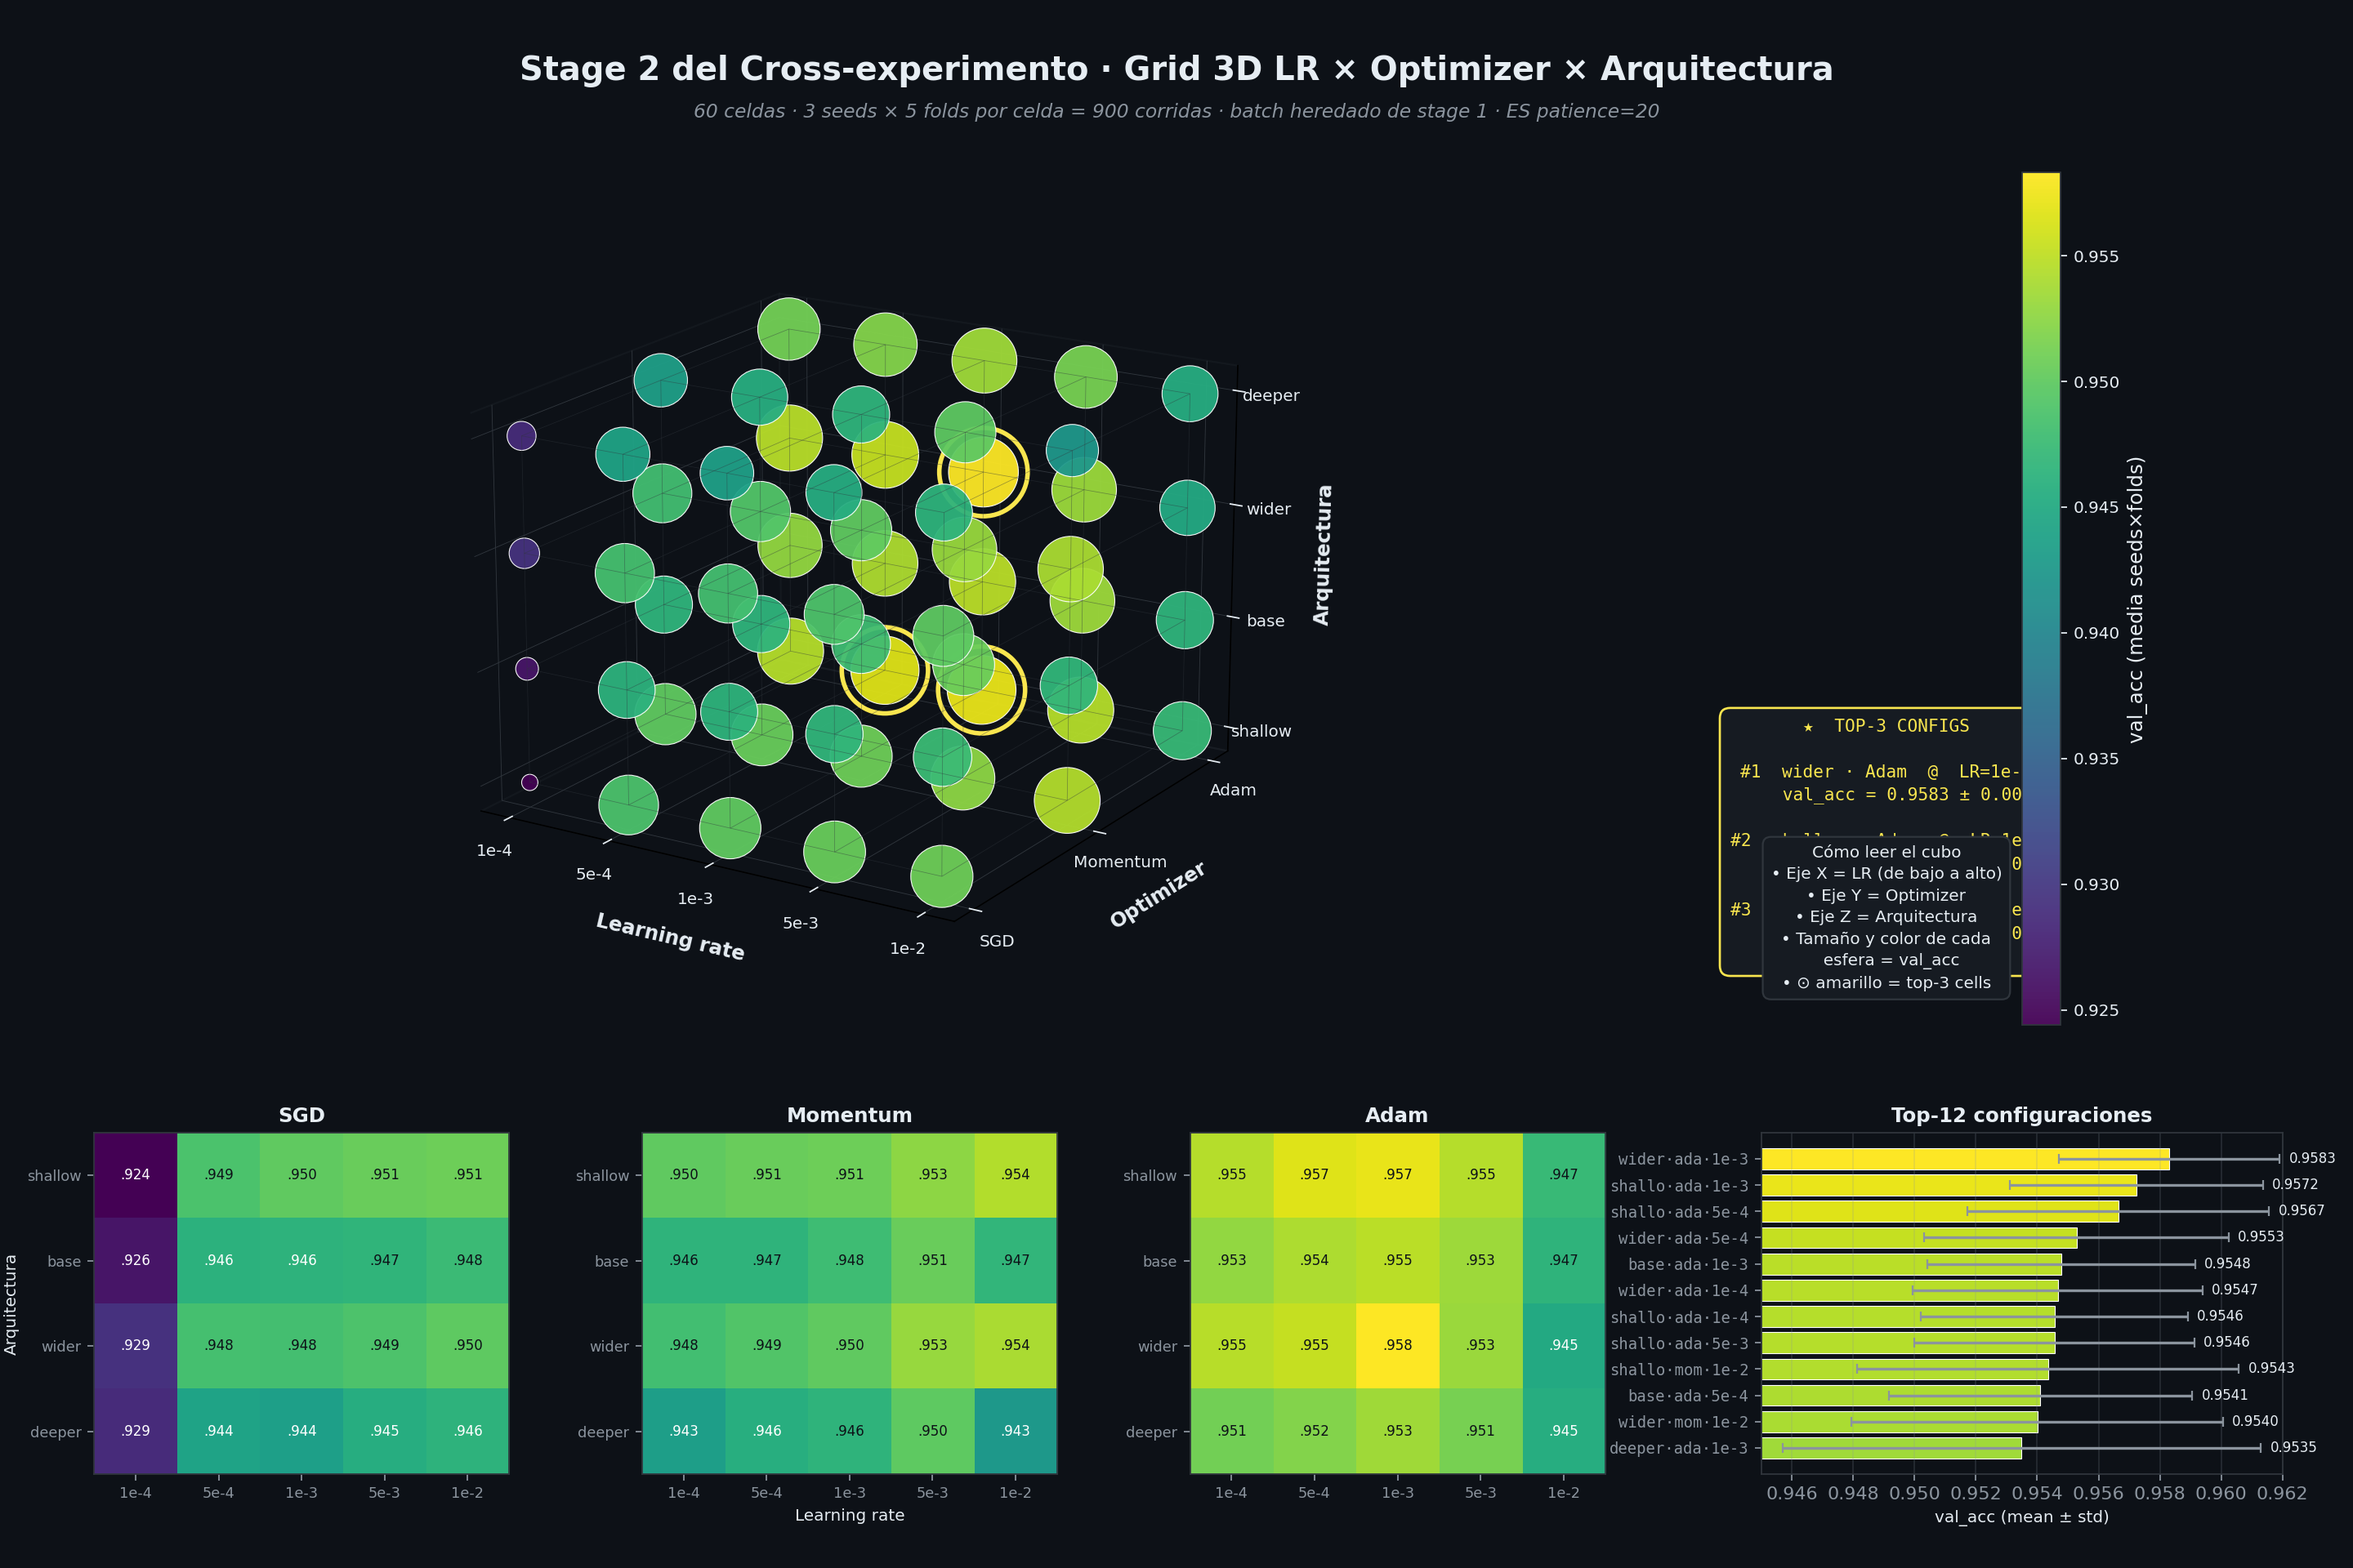
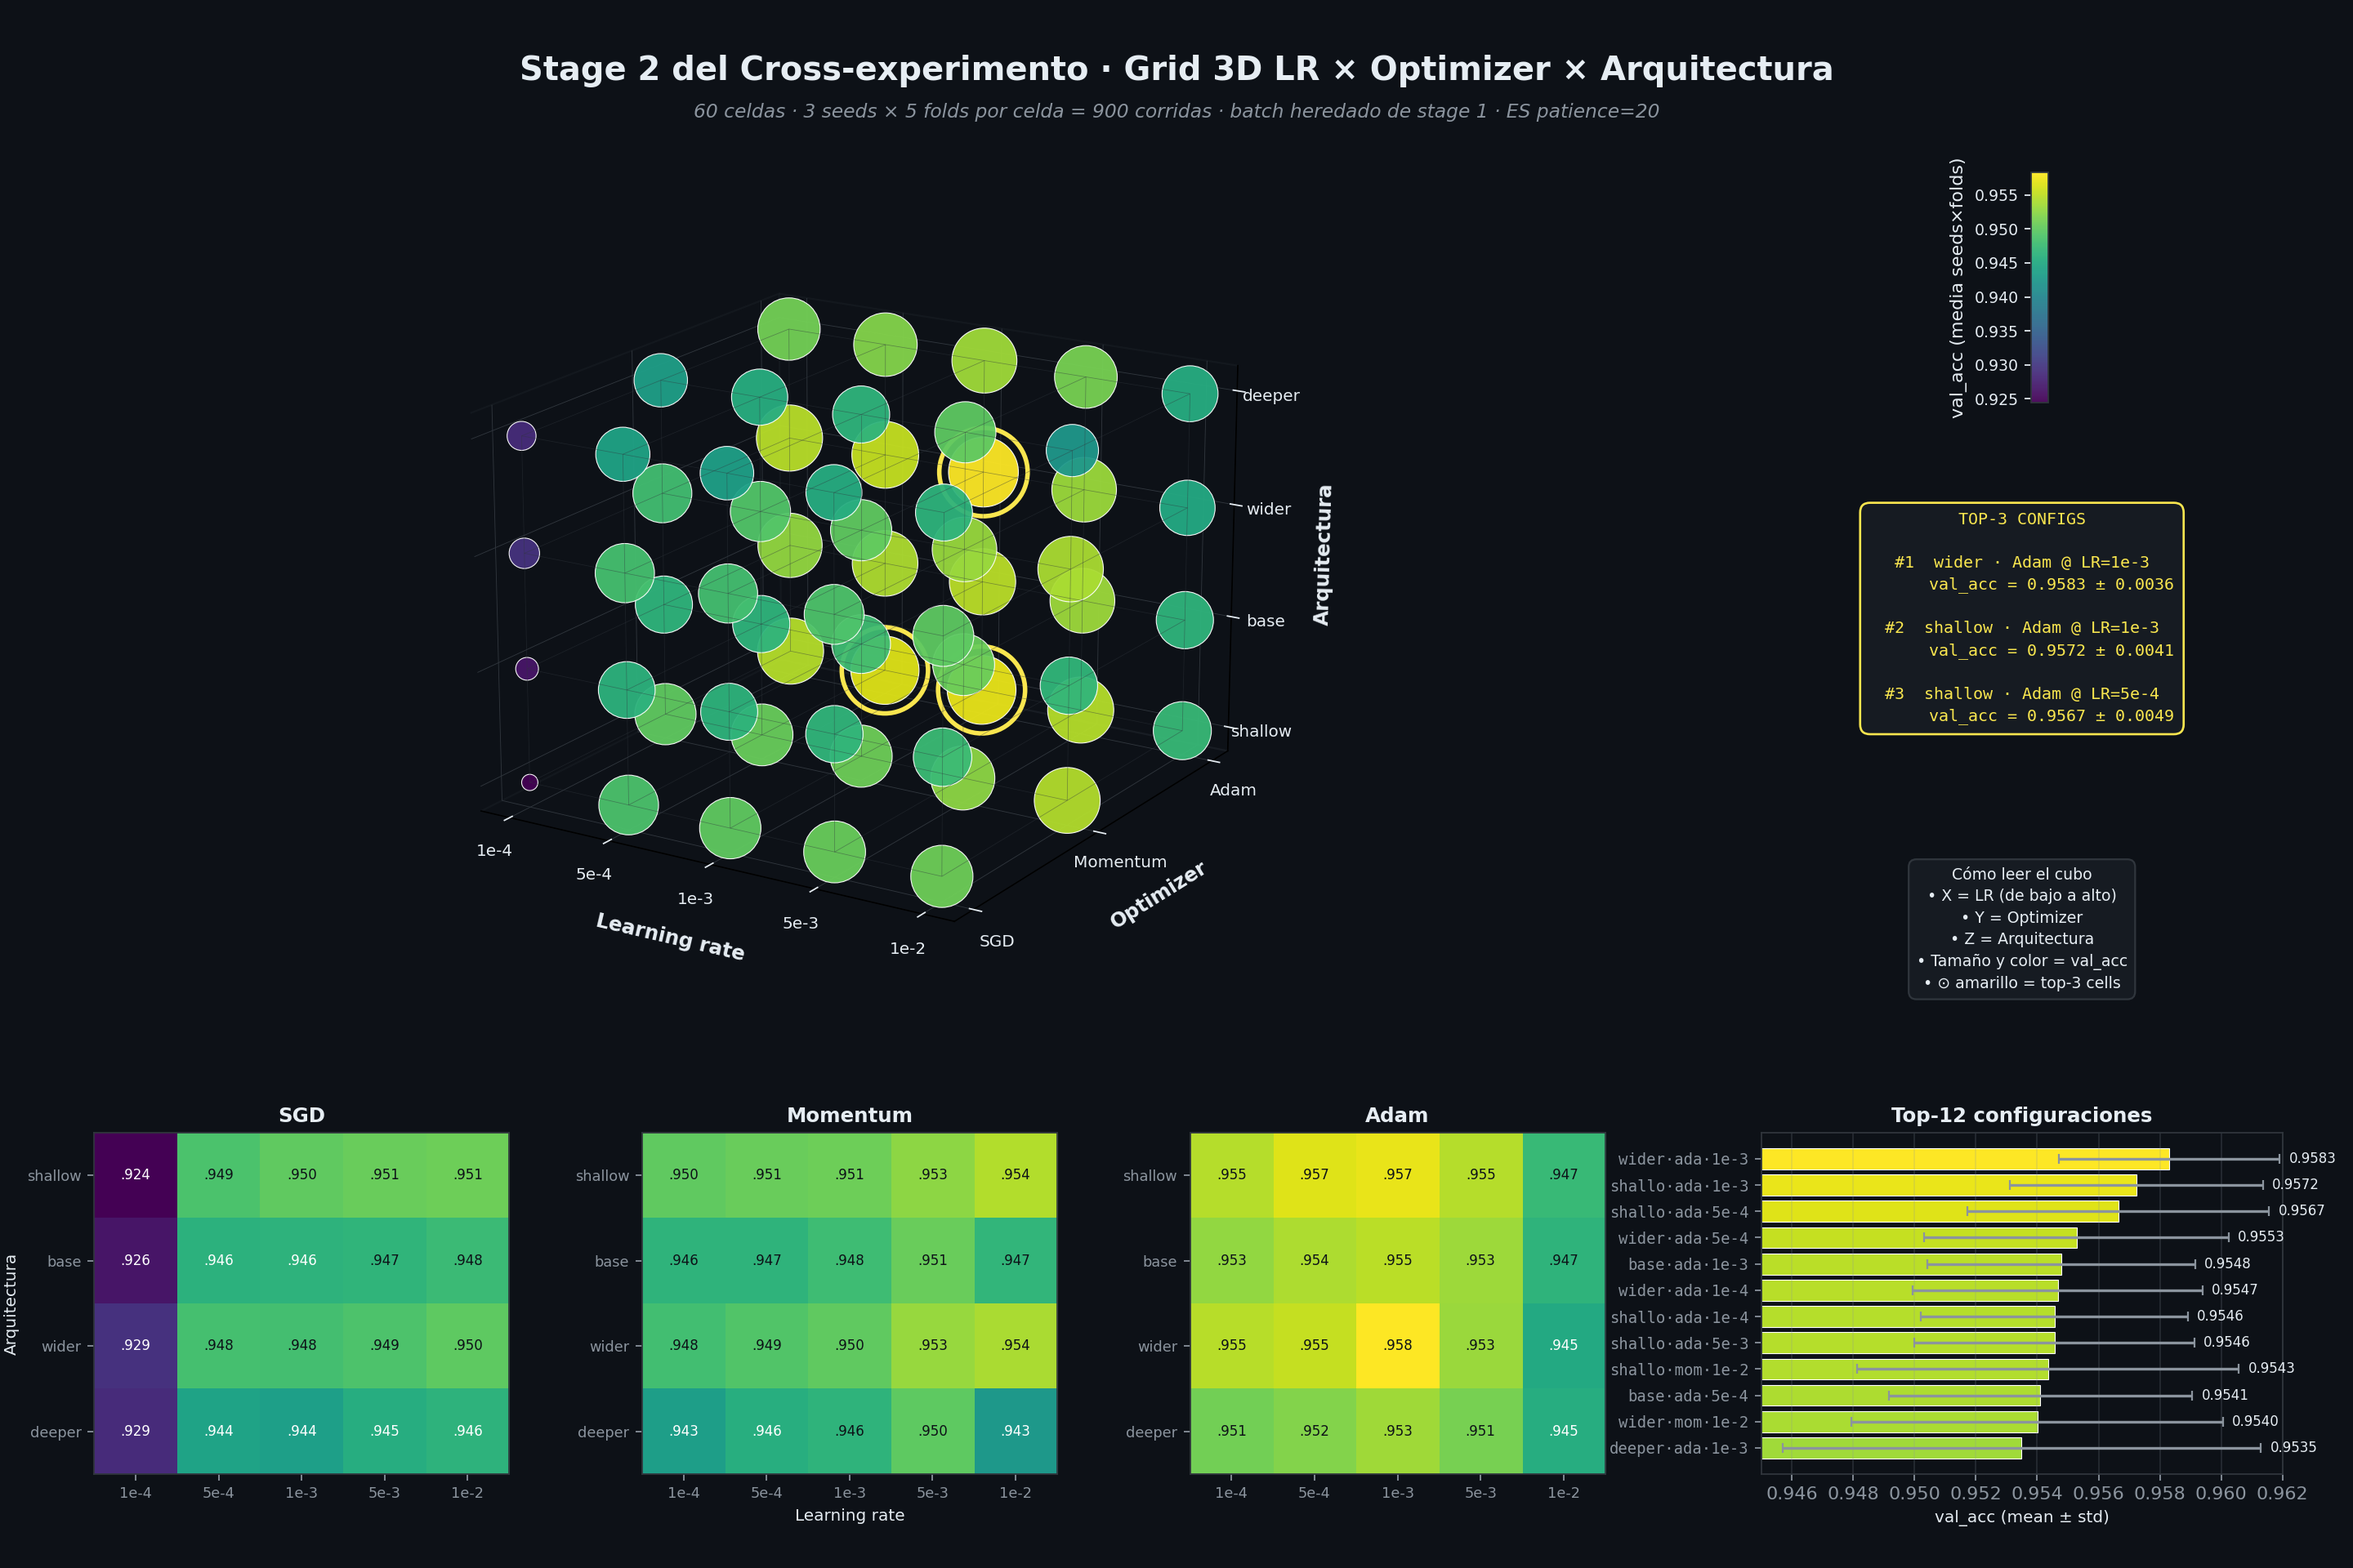
ej2: fix layout del sidebar derecho de grid_3d_static — sin solapamientos
Split la columna derecha en 3 sub-axes verticales (colorbar / top-3 legend
/ cómo leer el cubo). Antes los tres elementos compartían un mismo cax
y se pisaban entre sí.

Changed region(s): [[0.7188, 0.0938, 0.9375, 0.6562]]

diff --git a/ejercicio2_experimentacion/visualizacion_cross_v1/plot_grid_3d_static.py b/ejercicio2_experimentacion/visualizacion_cross_v1/plot_grid_3d_static.py
@@ -105,43 +105,51 @@ def main() -> None:
     ax.view_init(elev=18, azim=-58)
 
     # Colorbar
-    cax = fig.add_subplot(gs[0, 2])
-    cax.set_facecolor(BG); cax.axis("off")
-    cb = fig.colorbar(sc, ax=cax, fraction=0.5, pad=0.02, aspect=22)
-    cb.set_label("val_acc (media seeds×folds)", color=TEXT, fontsize=11)
-    cb.ax.yaxis.set_tick_params(color=TEXT, labelsize=9)
+    # Columna derecha dividida en 3 zonas verticales: colorbar / top-3 / cómo-leer.
+    gs_right = gs[0, 2].subgridspec(3, 1, height_ratios=[1.2, 1.4, 1.0], hspace=0.35)
+
+    # --- Colorbar (zona superior) ---
+    cax_cb = fig.add_subplot(gs_right[0, 0])
+    cax_cb.set_facecolor(BG); cax_cb.axis("off")
+    cb = fig.colorbar(sc, ax=cax_cb, fraction=0.55, pad=0.02, aspect=14, location="left")
+    cb.set_label("val_acc (media seeds×folds)", color=TEXT, fontsize=10)
+    cb.ax.yaxis.set_tick_params(color=TEXT, labelsize=8.5)
     plt.setp(plt.getp(cb.ax.axes, 'yticklabels'), color=TEXT)
     cb.outline.set_edgecolor(GRID)
 
-    # Leyenda: top-3 configs
-    top3_lines = ["★  TOP-3 CONFIGS", ""]
+    # --- Top-3 legend (zona media) ---
+    cax_top3 = fig.add_subplot(gs_right[1, 0])
+    cax_top3.set_facecolor(BG); cax_top3.axis("off")
+    top3_lines = ["TOP-3 CONFIGS", ""]
     medals = ["#1", "#2", "#3"]
     for rank, (_, r) in enumerate(top.iterrows(), 1):
         top3_lines.append(
             f"{medals[rank-1]}  {r['arch'].replace('arch_','')} · "
-            f"{OPT_LABEL[int(r['yi'])]}  @  LR={LR_LABEL[int(r['xi'])]}"
+            f"{OPT_LABEL[int(r['yi'])]} @ LR={LR_LABEL[int(r['xi'])]}"
         )
         top3_lines.append(
-            f"     val_acc = {r['val_acc_final_mean']:.4f} ± {r['val_acc_final_std']:.4f}"
+            f"      val_acc = {r['val_acc_final_mean']:.4f} ± {r['val_acc_final_std']:.4f}"
         )
         top3_lines.append("")
-    cax.text(0.5, 0.36, "\n".join(top3_lines),
-             transform=cax.transAxes, color="#f9e64f", fontsize=9.5,
-             ha="center", va="top", linespacing=1.5, family="monospace",
-             bbox=dict(facecolor="#161b22", edgecolor="#f9e64f",
-                       boxstyle="round,pad=0.6", linewidth=1.2))
+    cax_top3.text(0.5, 0.5, "\n".join(top3_lines).strip(),
+                  transform=cax_top3.transAxes, color="#f9e64f", fontsize=9,
+                  ha="center", va="center", linespacing=1.5, family="monospace",
+                  bbox=dict(facecolor="#161b22", edgecolor="#f9e64f",
+                            boxstyle="round,pad=0.6", linewidth=1.2))
 
-    # Lectura sintética del cubo
-    cax.text(0.5, 0.04,
-             "Cómo leer el cubo\n"
-             "• Eje X = LR (de bajo a alto)\n"
-             "• Eje Y = Optimizer\n"
-             "• Eje Z = Arquitectura\n"
-             "• Tamaño y color de cada\n  esfera = val_acc\n"
-             "• ⊙ amarillo = top-3 cells",
-             transform=cax.transAxes, color=TEXT, fontsize=9,
-             ha="center", va="bottom", linespacing=1.5,
-             bbox=dict(facecolor="#161b22", edgecolor=GRID, boxstyle="round,pad=0.5"))
+    # --- "Cómo leer el cubo" (zona inferior) ---
+    cax_howto = fig.add_subplot(gs_right[2, 0])
+    cax_howto.set_facecolor(BG); cax_howto.axis("off")
+    cax_howto.text(0.5, 0.5,
+                   "Cómo leer el cubo\n"
+                   "• X = LR (de bajo a alto)\n"
+                   "• Y = Optimizer\n"
+                   "• Z = Arquitectura\n"
+                   "• Tamaño y color = val_acc\n"
+                   "• ⊙ amarillo = top-3 cells",
+                   transform=cax_howto.transAxes, color=TEXT, fontsize=8.5,
+                   ha="center", va="center", linespacing=1.5,
+                   bbox=dict(facecolor="#161b22", edgecolor=GRID, boxstyle="round,pad=0.5"))
 
     # ========== Panel inferior izquierdo: 3 heatmaps faceted por opt ==========
     gs_hm = gs[1, :2].subgridspec(1, 3, wspace=0.32)
